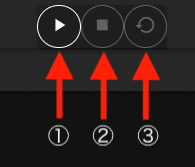
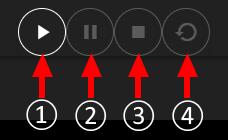
fixed button name

diff --git a/documentMD/user_guide/_reference/3_workflow_screen/1_graphview.md b/documentMD/user_guide/_reference/3_workflow_screen/1_graphview.md
@@ -49,9 +49,10 @@ title: グラフビュー画面
 
 ||構成要素|説明|
 |----------|----------|---------------------------------|
-|1|run project ボタン             |プロジェクトを実行開始します|
-|2|stop project ボタン            |プロジェクトの実行を停止し実行前の状態に戻します|
-|3|stop and cleanup project ボタン|プロジェクトの実行中に生成されたファイルなどを削除し、実行開始前の状態に戻します|
+|1|run project ボタン      |プロジェクトを実行開始します|
+|2|pause project ボタン    |プロジェクトを一時停止します|
+|3|stop project ボタン     |プロジェクトの実行を停止し実行前の状態に戻します|
+|4|cleanup project ボタン  |プロジェクトの実行中に生成されたファイルなどを削除し、実行開始前の状態に戻します|
 
 ### 保存ボタンエリア
 このエリアには、編集したプロジェクトの保存に関わるボタンが表示されます。
